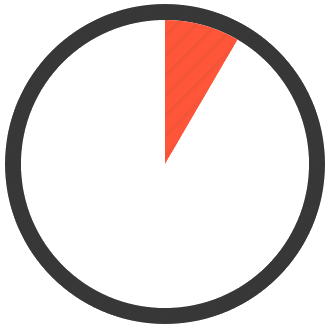
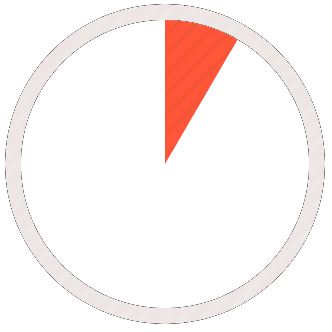
Changed background and formatted code

Changed region(s): [[0.0, 0.0, 0.994, 0.994]]

diff --git a/index.html b/index.html
@@ -1,33 +1,36 @@
 <!DOCTYPE html>
 <html>
+
 <head>
     <meta charset="utf-8" />
     <meta name="viewport" content="width=device-width, initial-scale=1.0, maximum-scale=1.0">
-    <meta name="description" content="Tizen Wearable basic template generated by Samsung Wearable Web IDE"/>
+    <meta name="description" content="Tizen Wearable basic template generated by Samsung Wearable Web IDE" />
 
     <title>Tizen Wearable Web IDE - Tizen Wearable - Tizen Wearable basic Application</title>
 
-    <link rel="stylesheet" type="text/css" href="css/style.css"/>
+    <link rel="stylesheet" type="text/css" href="css/style.css" />
     <script src="js/main.js"></script>
 </head>
+
 <body>
     <div id="container">
-		<div id="components-main">
-           	<div id="logo">
-           		<img id="logo-img" src="pause.png" width=100 height=100>
-           	</div>
-           	<div id="pomodoro-timer">
-           		<h1 id="minutes" class="timer">00</h1>
-           		<h1 class="timer">:</h1>
-           		<h1 id="seconds" class="timer">00</h1>
-           	</div>
+        <div id="components-main">
+            <div id="logo">
+                <img id="logo-img" src="play.png" width=100 height=100>
+            </div>
+            <div id="pomodoro-timer">
+                <h1 id="minutes" class="timer">00</h1>
+                <h1 class="timer">:</h1>
+                <h1 id="seconds" class="timer">00</h1>
+            </div>
             <div id="menu-container">
-                <img src="5.png" id="shortPause"  class="menu-option upper" width=200 />
-           		<img src="tomato.png" id="pomo" class="menu-option" width=200 />
-           		<img src="10.png" id="longPause"  class="menu-option upper" width=200 />
-           	</div>
-		</div>
-	</div>
+                <img src="5.png" id="shortPause" class="menu-option upper" width=200 />
+                <img src="tomato.png" id="pomo" class="menu-option" width=200 />
+                <img src="10.png" id="longPause" class="menu-option upper" width=200 />
+            </div>
+        </div>
+    </div>
     <script src="js/main.js"></script>
 </body>
+
 </html>

diff --git a/css/style.css b/css/style.css
@@ -1,57 +1,50 @@
 html, body {
-    width: 100%;
-    height: 100%;
-    margin: 0px;
-
+     width: 100%;
+     height: 100%;
+     margin: 0px;
 }
-
-#container {
-    width: 100%;
-    height: 100%;
-	overflow: hidden;
-    background-image: url("../pattern.jpg");
+ #container {
+     width: 100%;
+     height: 100%;
+     overflow: hidden;
+     background-color: #191917;
 }
-
-#components-main {
-    position: absolute;
-    text-align: center;
-    width: 100%;
-    height: 100%;
+ #components-main {
+     position: absolute;
+     text-align: center;
+     width: 100%;
+     height: 100%;
 }
-
-#logo {
-	margin: 0 auto;
-	width: 60%;
-	margin-top: 10%;
+ #logo {
+     margin: 0 auto;
+     width: 60%;
+     margin-top: 10%;
 }
-
-#pomodoro-timer {
-	margin: 0 auto;
-	margin-top: -10%;	
+ #pomodoro-timer {
+     margin: 0 auto;
+     margin-top: -10%;
 }
-
-.timer{
-	display: inline-block;
-	font-size: 60px;
+ .timer{
+     display: inline-block;
+     font-size: 60px;
+     color: #F9F9F9;
+    ' 
 }
-
-.red{
-	color: red;
+ .red{
+     color: red;
 }
-
-#menu-container {
-	width: 100%;
-	margin: 0 auto;
-	text-align: center;
-	margin-top: -30px;
+ #menu-container {
+     width: 100%;
+     margin: 0 auto;
+     text-align: center;
+     margin-top: -30px;
 }
-
-.menu-option {
-	display: inline-block;
-	width: 70px;
-	padding: 11px;
+ .menu-option {
+     display: inline-block;
+     width: 70px;
+     padding: 11px;
 }
-	
-.upper {
-	margin-bottom: 30px;	
+ .upper {
+     margin-bottom: 30px;
 }
+ 
